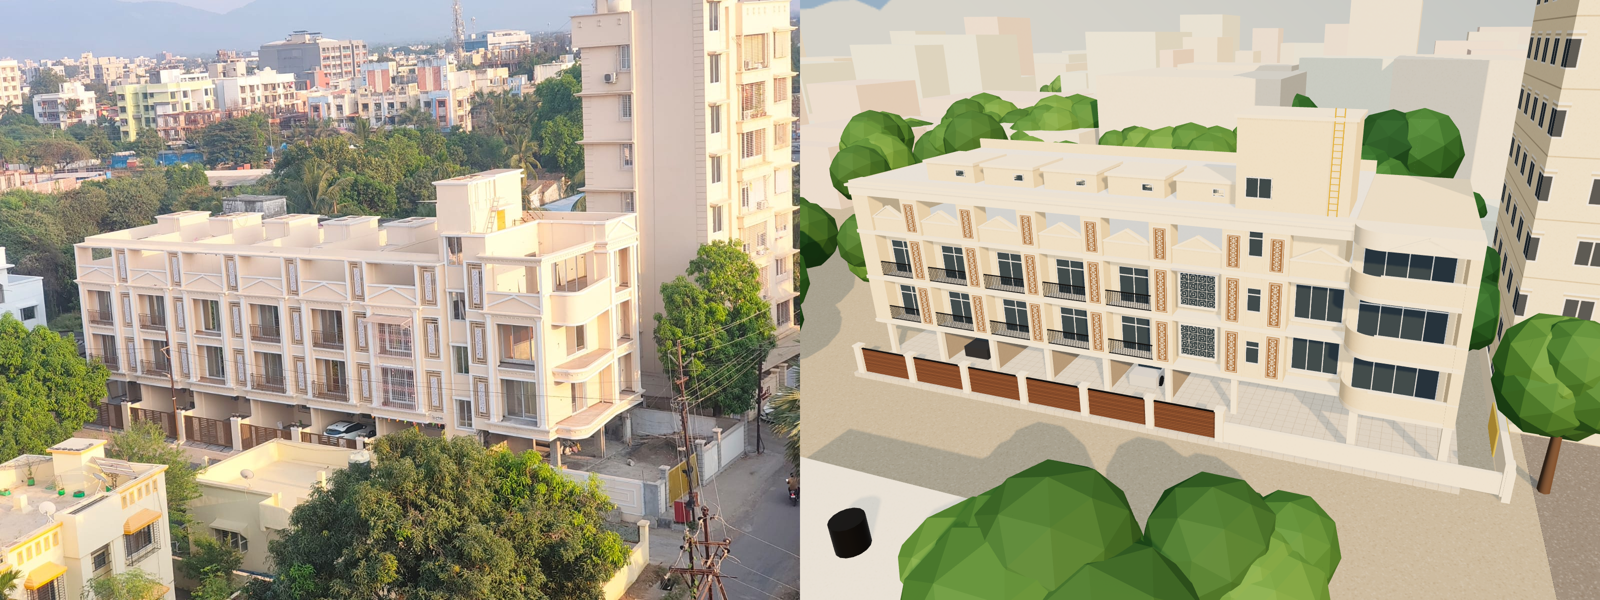
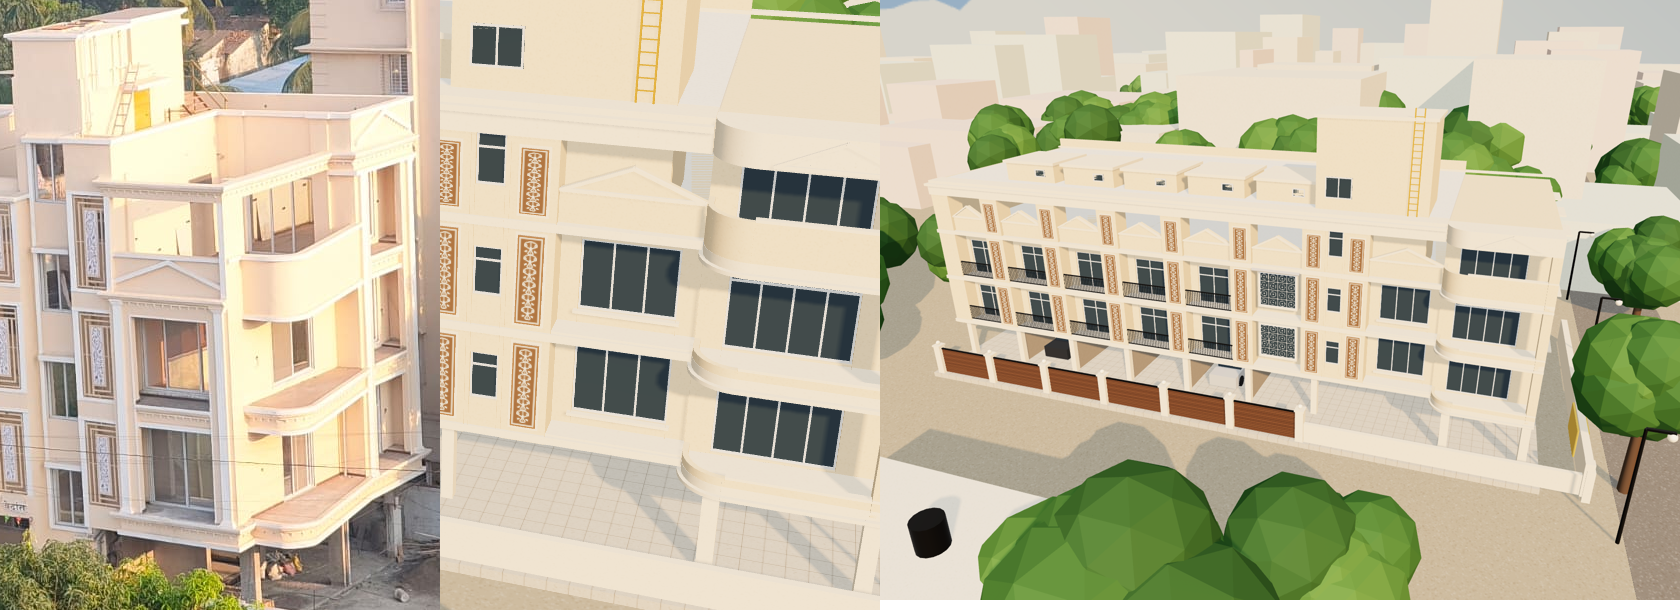
Row House: corner rework, rear facade, Dollhouse interior, day/night
- Corner block matches the photo: white-framed tall-window bay, open
  curved slabs with a moulded lip on two levels, solid curved parapet on
  top; the neighbouring tower on the right is removed
- Rear facade: windows with sunshades, bath windows, AC units, drain
  pipes, service doors, a rear lane and compound wall; Rear button
- Dollhouse: unit 3 is furnished (living, dining, kitchen; two bedrooms
  and a bath), isolated with clipping planes, cut per floor with capped
  walls, on a studio floor; Floor 1 / Floor 2 buttons
- Day/night slider: sky, sun to moon, stars, lit windows, gate and
  stilt lamps, street lamps, court lights and facade washers

diff --git a/rowhouse/index.html b/rowhouse/index.html
@@ -26,6 +26,7 @@ html,body{margin:0;height:100%;overflow:hidden;background:#d9d6cc;font-family:In
 #bar button[aria-pressed="true"]{color:var(--ink);background:rgba(211,191,151,.13);border-color:rgba(211,191,151,.3)}
 #bar label{flex:none;display:flex;align-items:center;gap:8px;padding:0 10px;font:500 11px Inter;letter-spacing:.12em;text-transform:uppercase;color:var(--mute)}
 #bar input{width:110px;accent-color:#b89a5e}
+#bar button[hidden]{display:none}
 #check{right:18px;top:18px;padding:9px 13px;border-radius:10px;background:var(--glass);border:1px solid var(--line);font:500 11px Inter;color:var(--champ)}
 body.shot .ui{display:none!important}
 </style>
@@ -42,9 +43,14 @@ body.shot .ui{display:none!important}
 <div id="bar" class="ui" role="toolbar" aria-label="View">
   <button data-v="photo" aria-pressed="true">Photo view</button>
   <button data-v="orbit" aria-pressed="false">Orbit</button>
+  <button data-v="rear" aria-pressed="false">Rear</button>
+  <button data-v="dollhouse" aria-pressed="false">Dollhouse</button>
+  <button data-f="0" aria-pressed="true" hidden>Floor 1</button>
+  <button data-f="1" aria-pressed="false" hidden>Floor 2</button>
   <button data-t="massing" aria-pressed="false">Massing</button>
   <button data-t="context" aria-pressed="true">Context</button>
   <label>Compare <input id="cmp" type="range" min="0" max="100" value="0"></label>
+  <label>☀ <input id="tod" type="range" min="0" max="100" value="0" aria-label="Time of day, day to night"> ☾</label>
 </div>
 <script type="module">
 import * as THREE from 'three';
@@ -78,14 +84,21 @@ const SPEC={
   /* the corner block, measured from the end of the row (x offsets): a narrow bay, a panel pilaster, a wide-window
      bay, then a balcony stack projecting forward with a rounded front-left corner; the stair and lift tower on top */
   corner:{width:11.8,narrow:{x0:.625,x1:1.675},pilaster:2.3,
-    stack:{x0:6,right:11.8,front:1.6,back:-.35,radius:1.5},
+    stack:{x0:6.6,right:11.8,front:1.25,back:-.35,radius:1.2},
     tower:{x0:-.2,x1:5.6,z0:-4.6,z1:-.6,top:17.2}},
+  dollhouse:{unit:2,cut:2.3},                                          // the furnished unit shown in the Dollhouse view
   cars:[{unit:4,color:'#f1f1ee'},{unit:1,color:'#3a3e44'}],
   palette:{wall:'#f3d6ad',trim:'#f8e4c6',shade:'#9a8f80',roof:'#ece5d8',
     panelFrame:'#8f6a45',panelField:'#7a5a3a',panelLine:'#f4ede0',
     rail:'#1b1b1b',glass:'#33424c',wood:'#6e4a30',gap:'#2a1c12',paving:'#c9bfae',
     ground:'#a79c86',road:'#77736d',leaf:'#3f6a2b',neighbour:'#efd9b4'}
 };
+
+/* the sky gradient, repainted as the time of day changes */
+const SKY_DAY=['#98b0c4','#c3ced5','#dcdcd5'],SKY_NIGHT=['#05081a','#111a33','#283048'];
+function paintSky(t,k){const c=t.image,x=c.getContext('2d'),g=x.createLinearGradient(0,0,0,c.height),L=(a,b)=>new THREE.Color(a).lerp(new THREE.Color(b),k).getStyle();
+  g.addColorStop(0,L(SKY_DAY[0],SKY_NIGHT[0]));g.addColorStop(.5,L(SKY_DAY[1],SKY_NIGHT[1]));g.addColorStop(1,L(SKY_DAY[2],SKY_NIGHT[2]));
+  x.fillStyle=g;x.fillRect(0,0,c.width,c.height);t.needsUpdate=true;}
 
 /* ── 3. procedural materials: tileable canvas textures, every colour taken from the palette ── */
 function canvas(w,h=w){const c=document.createElement('canvas');c.width=w;c.height=h;return [c,c.getContext('2d')];}
@@ -130,9 +143,14 @@ const TEX={
     x.beginPath();x.moveTo(128,72);x.lineTo(128,180);x.stroke();
     x.fillStyle='rgba(0,0,0,.2)';x.fillRect(60,56,136,9);x.fillStyle='#f3eadb';x.fillRect(60,46,136,10);
     x.fillStyle='rgba(0,0,0,.22)';x.fillRect(0,250,256,6);return tex(c);},
-  sky(){const[c,x]=canvas(4,256),g=x.createLinearGradient(0,0,0,256);
-    g.addColorStop(0,'#98b0c4');g.addColorStop(.5,'#c3ced5');g.addColorStop(1,'#dcdcd5');x.fillStyle=g;x.fillRect(0,0,4,256);
-    return tex(c,{repeat:false});},
+  sky(){const[c]=canvas(4,256);const t=tex(c,{repeat:false});paintSky(t,0);return t;},
+  planks(){const[c,x]=canvas(256),r=rng(17),n=8,h=256/n;
+    for(let i=0;i<n;i++){const k=.85+r()*.25;x.fillStyle=`rgb(${168*k|0},${122*k|0},${82*k|0})`;x.fillRect(0,i*h,256,h);
+      x.fillStyle='rgba(60,35,15,.35)';x.fillRect(0,i*h,256,1.5);const o=r()*256;x.fillRect(o,i*h,1.5,h);
+      x.strokeStyle='rgba(70,40,20,.12)';for(let j=0;j<6;j++){const y=i*h+2+r()*(h-4);x.beginPath();x.moveTo(0,y);x.lineTo(256,y+r()*2-1);x.stroke();}}
+    return tex(c);},
+  tiles(hex){const[c,x]=canvas(256);x.fillStyle=hex;x.fillRect(0,0,256,256);mottle(x,256,256,23,.05);
+    x.fillStyle='rgba(90,80,70,.35)';for(let i=0;i<4;i++){x.fillRect(i*64,0,2,256);x.fillRect(0,i*64,256,2);}return tex(c);},
   hills(){const[c,x]=canvas(1024,128),r=rng(9);x.fillStyle='#fff';x.beginPath();x.moveTo(0,128);let y=80;
     for(let i=0;i<=64;i++){y=Math.max(14,Math.min(112,y+(r()-.5)*24-(i>18&&i<34?3.5:i>34&&i<48?-3:0)));x.lineTo(i*16,y);}
     x.lineTo(1024,128);x.fill();return tex(c,{repeat:false});}
@@ -148,6 +166,22 @@ function makeMaterials(p){
     rail:std({color:p.rail,roughness:.45,metalness:.55}),
     frame:std({color:'#f3f2ee',roughness:.4,metalness:.15}),
     glass:new THREE.MeshPhysicalMaterial({color:p.glass,roughness:.06,metalness:0,ior:1.5,envMapIntensity:1.5}),
+    /* lit windows: the same glass with a warm glow that the time-of-day slider turns up after dark */
+    glassLit:new THREE.MeshPhysicalMaterial({color:p.glass,roughness:.06,metalness:0,ior:1.5,envMapIntensity:1.5,emissive:'#ffbf6e',emissiveIntensity:0}),
+    lamp:std({color:'#fff1d6',emissive:'#ffcf8a',emissiveIntensity:.15,roughness:.4}),
+    ac:std({color:'#d9d9d4',roughness:.5}),
+    pipe:std({color:'#e8e2d6',roughness:.6}),
+    /* interior */
+    inWall:std({map:TEX.plaster('#f5efe5',41,.03),roughness:.92},2.5),
+    floorWood:std({map:TEX.planks(),roughness:.55},1.6),
+    tile:std({map:TEX.tiles('#e6e2da'),roughness:.4},1.2),
+    sofa:std({color:'#8c735a',roughness:.92}),accent:std({color:'#3f6f66',roughness:.9}),
+    linen:std({color:'#f2ede3',roughness:.95}),throwM:std({color:'#a8584a',roughness:.9}),
+    woodDark:std({color:'#4d3626',roughness:.6}),white:std({color:'#f3f1ec',roughness:.35}),
+    counter:std({color:'#2f2f30',roughness:.3}),metal:std({color:'#a3a8ab',roughness:.3,metalness:.8}),
+    screen:std({color:'#0b0c0e',roughness:.15}),rug:std({color:'#b5a083',roughness:.98}),
+    ceil:std({color:'#fff7ea',emissive:'#ffe1b0',emissiveIntensity:.4}),
+    cap:std({color:'#f1e9dc',roughness:.9}),
     gate:std({map:TEX.slats(p),roughness:.7}),
     grille:std({map:TEX.grille(),alphaTest:.5,side:THREE.DoubleSide,roughness:.5,color:'#f2efe8'}),
     awning:std({color:'#d6d2cc',roughness:.55,metalness:.3}),
@@ -212,8 +246,9 @@ function buildRowHouse(S,M,stage){
       const hs=holes.filter(h=>mx>h[0]&&mx<h[1]).sort((p,q)=>p[2]-q[2]);let y=y0;
       for(const h of hs){if(h[2]>y)BX(a,b,y,h[2],zf-t,zf,m);y=Math.max(y,h[3]);}if(y1>y)BX(a,b,y,y1,zf-t,zf,m);}}
   /* a window set back in its reveal: white aluminium frame, mullions, a fanlight transom, glass */
+  const lit=rng(77),glass=()=>lit()<.55?M.glassLit:M.glass;
   function windowAt(xc,yb,w,h,zf,{mullions=1,transom=.55}={}){const zg=zf-.12,t=.06;
-    P(w,h,xc,yb+h/2,zg,M.glass);
+    P(w,h,xc,yb+h/2,zg,glass());
     BX(xc-w/2,xc+w/2,yb,yb+t,zg-.02,zg+.05,M.frame);BX(xc-w/2,xc+w/2,yb+h-t,yb+h,zg-.02,zg+.05,M.frame);
     BX(xc-w/2,xc-w/2+t,yb,yb+h,zg-.02,zg+.05,M.frame);BX(xc+w/2-t,xc+w/2,yb,yb+h,zg-.02,zg+.05,M.frame);
     for(let i=1;i<=mullions;i++){const x=xc-w/2+w*i/(mullions+1);BX(x-t/2,x+t/2,yb,yb+h,zg-.01,zg+.04,M.frame);}
@@ -241,10 +276,14 @@ function buildRowHouse(S,M,stage){
   /* a recessed residential bay between two pilasters: french windows with railings, or the grilled bay windows */
   function bay(x0,x1,kind){const xc=(x0+x1)/2,a=x0+PW/2,b=x1-PW/2;
     for(let i=0;i<2;i++){const y0=FL[i];
-      BX(a,b,y0,y0+.16,-R0,PD-.02,M.trim);                                      // balcony slab
+      if(kind!=='framed')BX(a,b,y0,y0+.16,-R0,PD-.02,M.trim);                   // balcony slab
       if(kind==='french'){const {w,h}=S.window,yb=y0+.16;
         wallHoles(a,b,y0,y0+FH,-R0,[[xc-w/2,xc+w/2,yb,yb+h]]);windowAt(xc,yb,w,h,-R0);
         railing(a,b,y0+.16,PD-.08);}
+      else if(kind==='framed'){const w=2.1,h=2.25,yb=y0+.36;                     // tall window between white frame pilasters
+        wallHoles(a,b,y0,y0+FH,-R0,[[xc-w/2,xc+w/2,yb,yb+h]]);windowAt(xc,yb,w,h,-R0,{mullions:1,transom:0});
+        BX(xc-w/2-.15,xc+w/2+.15,yb-.12,yb,-R0,-R0+.26,M.trim);BX(xc-w/2-.25,xc+w/2+.25,y0+.06,y0+.3,-R0,-R0+.14,M.trim);
+        for(const s of[-1,1])BX(xc+s*(w/2+.34)-.09,xc+s*(w/2+.34)+.09,y0,y0+FH,-R0,PD+.06,M.trim);}
       else if(kind==='wide'){const w=2.6,h=2,yb=y0+.55;
         wallHoles(a,b,y0,y0+FH,-R0,[[xc-w/2,xc+w/2,yb,yb+h]]);windowAt(xc,yb,w,h,-R0,{mullions:2,transom:0});
         BX(xc-w/2-.1,xc+w/2+.1,yb-.08,yb,-R0,-R0+.18,M.trim);}
@@ -252,14 +291,18 @@ function buildRowHouse(S,M,stage){
         wallHoles(a,b,y0,y0+FH,zf,[[xc-w/2,xc+w/2,yb,yb+h]]);
         BX(xc-w/2-.08,xc+w/2+.08,yb+h,yb+h+.1,zf,zf+d,M.trim);BX(xc-w/2-.08,xc+w/2+.08,yb-.1,yb,zf,zf+d,M.trim);
         for(const s of[-1,1])BX(xc+s*(w/2+.04)-.04,xc+s*(w/2+.04)+.04,yb,yb+h,zf,zf+d,M.trim);
-        P(w,h,xc,yb+h/2,zf+d-.16,M.glass);P(w,h,xc,yb+h/2,zf+d-.02,M.grille);
+        P(w,h,xc,yb+h/2,zf+d-.16,glass());P(w,h,xc,yb+h/2,zf+d-.02,M.grille);
         if(i===1)B(w+.6,.04,.95,xc,yb+h+.42,zf+d+.05,M.awning,{rx:.42});}}
     gableParapet(a,b);}
 
   /* ── coarse massing ── */
-  BX(-.6,sR+.6,0,G,-D-.6,S.court.front,M.paving);                               // podium
+  BX(-.6,sR+.6,0,G,-D-3.2,S.court.front,M.paving);                              // podium and rear service lane
   for(const [x0,x1] of [[0,sx0]]){BX(x0,x1,FL[0]-.18,FL[0],-D,BODY,M.trim);BX(x0,x1,FL[2]-.16,FL[2],-D,PD,M.roof);}
-  BX(0,sx0,FL[0],FL[2],-D,BODY,M.wall);                                          // body of the two residential floors
+  /* body of the two residential floors; the Dollhouse unit is a hollow shell with a floor between its storeys */
+  const DH=S.dollhouse.unit,dx0=DH*W,dx1=dx0+W,ix0=dx0+.12,ix1=dx1-.12,zr=-D+T;
+  BX(0,dx0,FL[0],FL[2],-D,BODY,M.wall);BX(dx1,sx0,FL[0],FL[2],-D,BODY,M.wall);
+  BX(dx0,ix0,FL[0],FL[2],-D,BODY,M.wall);BX(ix1,dx1,FL[0],FL[2],-D,BODY,M.wall);BX(ix0,ix1,FL[0],FL[2],-D,zr,M.wall);
+  BX(ix0+.95,ix1,FL[1]-.16,FL[1],zr,BODY,M.trim);BX(ix0,ix0+.95,FL[1]-.16,FL[1],zr,-8.9,M.trim);BX(ix0,ix0+.95,FL[1]-.16,FL[1],-5.6,BODY,M.trim);
   BX(sx0,sR,FL[0]-.18,TOP-.17,-D,SK.back-T,M.wall);                              // body of the corner stack, three floors
   BX(0,sx0,FL[2],TOP,-D,-D+.2,M.wall);BX(0,.2,FL[2],TOP,-D,BODY,M.wall);       // terrace-floor back and side walls
   BX(0,sx0,TOP-.17,TOP,-D,BODY,M.roof);                                          // roof over the terrace floor
@@ -285,24 +328,48 @@ function buildRowHouse(S,M,stage){
     wallHoles(nb[0],nb[1],y0,top,PD,[[xc-.4,xc+.4,y0+.95,y0+2.35]],PD-BODY);windowAt(xc,y0+.95,.8,1.4,PD,{mullions:0,transom:.4});}
   pilaster(at(K.pilaster));
   bay(at(K.pilaster),sx0+PW/2,'wide');
-  /* the stack: slabs with a rounded front-left corner, solid curved parapets, glass doors behind, a canopy roof */
+  /* the stack: slabs with a rounded front-left corner and a fascia moulding under each; the two lower levels are open
+     balconies with a low moulded lip, the top level has a solid curved parapet; glass doors behind, a canopy roof */
   const R=SK.radius,bF=SK.front,bk=SK.back,t=.16;
-  const outline=()=>{const sh=new THREE.Shape();sh.moveTo(sx0,-bk);sh.lineTo(sR,-bk);sh.lineTo(sR,-bF);sh.lineTo(sx0+R,-bF);
-    sh.absarc(sx0+R,-(bF-R),R,-Math.PI/2,-Math.PI,true);sh.closePath();return sh;};
+  const outline=(e=0)=>{const sh=new THREE.Shape(),f=bF+e,r=R+e;sh.moveTo(sx0-e,-bk);sh.lineTo(sR,-bk);sh.lineTo(sR,-f);sh.lineTo(sx0-e+r,-f);
+    sh.absarc(sx0-e+r,-(f-r),r,-Math.PI/2,-Math.PI,true);sh.closePath();return sh;};
   const flat=(shape,h,y,m)=>{const g=new THREE.ExtrudeGeometry(shape,{depth:h,bevelEnabled:false,curveSegments:28});g.rotateX(-Math.PI/2);add(g,m,0,y,0);};
-  for(const y0 of FL){flat(outline(),.26,y0-.26,M.trim);
-    const cx=sx0+R,cy=-(bF-R),ring=new THREE.Shape();
+  const parapet=(y0,h)=>{const cx=sx0+R,cy=-(bF-R),ring=new THREE.Shape();
     ring.moveTo(cx,cy-R);ring.absarc(cx,cy,R,-Math.PI/2,-Math.PI,true);ring.lineTo(cx-(R-t),cy);ring.absarc(cx,cy,R-t,-Math.PI,-Math.PI/2,false);ring.closePath();
-    flat(ring,1.05,y0,M.wall);
-    BX(sx0+R,sR,y0,y0+1.05,bF-t,bF,M.wall);BX(sx0,sx0+t,y0,y0+1.05,bk,bF-R,M.wall);
-    BX(sx0+R,sR,y0+1.05,y0+1.12,bF-t-.03,bF+.03,M.trim);
-    const top=y0===FL[2]?ENT:y0+FH,dc=(sx0+sR)/2-.2,dw=4.4;
+    flat(ring,h,y0,M.wall);BX(sx0+R,sR,y0,y0+h,bF-t,bF,M.wall);BX(sx0,sx0+t,y0,y0+h,bk,bF-R,M.wall);
+    BX(sx0+R,sR,y0+h,y0+h+.07,bF-t-.03,bF+.03,M.trim);};
+  for(let i=0;i<3;i++){const y0=FL[i];
+    flat(outline(),.26,y0-.26,M.trim);flat(outline(.1),.1,y0-.38,M.trim);
+    parapet(y0,i<2?.24:1.05);
+    const top=i===2?ENT:y0+FH,dc=(sx0+sR)/2-.3,dw=3.2;
     wallHoles(sx0,sR,y0,top,bk,[[dc-dw/2,dc+dw/2,y0+.05,y0+2.45]]);windowAt(dc,y0+.05,dw,2.4,bk,{mullions:3,transom:.5});
-    for(const zc of[-2.4,-6.2]){P(1.3,1.5,sR+.01,y0+1.7,zc,M.glass,Math.PI/2);                // windows on the right face
-      BX(sR,sR+.07,y0+.9,y0+.96,zc-.7,zc+.7,M.frame);BX(sR,sR+.07,y0+2.44,y0+2.5,zc-.7,zc+.7,M.frame);}}
+    for(const zc of[-2.4,-6.2,-10]){P(1.3,1.5,sR+.01,y0+1.7,zc,glass(),Math.PI/2);                // windows on the right face
+      BX(sR,sR+.07,y0+.9,y0+.96,zc-.7,zc+.7,M.frame);BX(sR,sR+.07,y0+2.44,y0+2.5,zc-.7,zc+.7,M.frame);
+      BX(sR,sR+.5,y0+2.62,y0+2.7,zc-.95,zc+.95,M.trim);}}
   flat(outline(),TOP-ENT,ENT,M.trim);                                             // canopy roof over the stack
-  BX(sR-.55,sR,FL[0]-.18,ENT,bk,bF,M.wall);                                       // the right-hand pier
+  BX(sR-.45,sR,FL[0]-.18,ENT,bF-.45,bF,M.wall);                                   // the front-right column
   gableMoulding(sx0+R+.3,sR-.7,ENT+.12,TOP-.08,bF+.05,.08);
+
+  /* ── the rear: windows with sunshades, small bathroom windows, AC units, drain pipes, service doors ── */
+  const rz=-D;
+  function rearWindow(xc,yb,w,h,{shade=true,mull=1}={}){
+    P(w,h,xc,yb+h/2,rz-.012,glass(),Math.PI);
+    BX(xc-w/2-.06,xc+w/2+.06,yb-.06,yb,rz-.08,rz,M.frame);BX(xc-w/2-.06,xc+w/2+.06,yb+h,yb+h+.06,rz-.08,rz,M.frame);
+    for(const s of[-1,1])BX(xc+s*(w/2+.03)-.03,xc+s*(w/2+.03)+.03,yb,yb+h,rz-.08,rz,M.frame);
+    for(let i=1;i<=mull;i++){const x=xc-w/2+w*i/(mull+1);BX(x-.025,x+.025,yb,yb+h,rz-.06,rz,M.frame);}
+    BX(xc-w/2-.14,xc+w/2+.14,yb-.12,yb-.06,rz-.16,rz,M.trim);
+    if(shade)BX(xc-w/2-.28,xc+w/2+.28,yb+h+.14,yb+h+.22,rz-.6,rz,M.trim);}
+  const acR=rng(5);
+  for(let k=0;k<N;k++){const xc=k*W+W/2;
+    for(let i=0;i<3;i++){const y0=FL[i];rearWindow(xc-.55,y0+.95,1.5,1.35);
+      if(i<2){rearWindow(xc+1.25,y0+1.75,.55,.55,{shade:false,mull:0});
+        if(acR()<.6){BX(xc-1.3,xc-.45,y0+.3,y0+.85,rz-.34,rz,M.ac);add(new THREE.CylinderGeometry(.19,.19,.02,20),M.rail,xc-.88,y0+.57,rz-.35,Math.PI/2,0,0,false);}}}
+    BX(xc-.5,xc+.5,G,G+2.1,rz-.04,rz,M.gate);}                                     // service door to the stilt floor
+  for(const xc of[C0+1.6,C0+4.2,sx0+1.6,sx0+4.4])for(let i=0;i<3;i++)rearWindow(xc,FL[i]+.95,1.5,1.35);
+  for(let k=0;k<=N;k++)add(new THREE.CylinderGeometry(.06,.06,TOP+.2-G,8),M.pipe,k*W+(k===N?-.3:.3),G+(TOP+.2-G)/2,rz-.14);
+  for(const y of FL)BX(-.2,sR,y-.1,y+.08,rz-.12,rz,M.trim);
+  BX(-.2,sR,TOP,TOP+.12,rz-.14,rz+.25,M.trim);
+  BX(-.6,sR+.6,0,1.8,-D-3.4,-D-3.2,M.trim);                                       // rear compound wall
 
   /* ── string courses, the top beam and cornice across row and corner ── */
   for(const y of FL)BX(-.25,sx0,y-.12,y+.1,BODY,PD+.08,M.trim);
@@ -318,9 +385,69 @@ function buildRowHouse(S,M,stage){
   const lx=tx1-.8;for(const x of[lx-.22,lx+.22])BX(x-.025,x+.025,TOP,TW.top+.6,TW.z1+.04,TW.z1+.09,M.ladder);
   for(let y=TOP+.3;y<TW.top+.5;y+=.32)BX(lx-.22,lx+.22,y,y+.03,TW.z1+.05,TW.z1+.08,M.ladder);
 
+  /* ── inside the Dollhouse unit: living, dining and kitchen on floor 1; two bedrooms and a bath on floor 2 ── */
+  const caps=[[],[]],cx=(ix0+ix1)/2,zf=BODY,HW=FH-.16;
+  const part=(lv,x0,x1,z0,z1)=>{BX(x0,x1,FL[lv],FL[lv]+HW,z0,z1,M.inWall);caps[lv].push([x0,x1,z0,z1]);};
+  for(let lv=0;lv<2;lv++){const y=FL[lv],xc=dx0+W/2,w=S.window.w;
+    /* shell: inner plaster lining (the front lining keeps the french window open), floor, ceiling light */
+    BX(ix0,ix0+.02,y,y+HW,zr,zf,M.inWall);BX(ix1-.02,ix1,y,y+HW,zr,zf,M.inWall);BX(ix0,ix1,y,y+HW,zr,zr+.02,M.inWall);
+    wallHoles(ix0,ix1,y,y+HW,zf,[[xc-w/2,xc+w/2,y+.16,y+.16+S.window.h]],.02,M.inWall);
+    BX(ix0,ix1,y,y+.02,zr,zf,M.floorWood,{s:false});
+    for(const z of[-3,-7.2,-11])add(new THREE.CylinderGeometry(.24,.24,.03,24),M.ceil,cx,y+HW-.03,z,0,0,0,false);
+    for(const [x0,x1,z0,z1] of[[dx0,ix0,-D,zf],[ix1,dx1,-D,zf],[ix0,ix1,-D,zr],[ix0,xc-w/2,zf,-R0],[xc+w/2,ix1,zf,-R0],
+      [dx0,dx0+PW/2,BODY,PD],[dx1-PW/2,dx1,BODY,PD]])caps[lv].push([x0,x1,z0,z1]);}
+  /* the stair: one flight per storey along the left party wall, with a handrail */
+  const stair=(y,up)=>{for(let i=0;i<14;i++){const z1=up?-5.6-i*.236:-8.9+i*.236,z0=z1-.236*(up?1:-1);
+      BX(ix0,ix0+.95,y,y+(i+1)*FH/14,Math.min(z0,z1),Math.max(z0,z1),M.white);}};
+  stair(FL[0],true);stair(FL[1],false);
+  { const y=FL[0];
+    part(0,ix1-1.1,ix1,-5.4,-5.3);part(0,ix0,ix0+1.4,-9.05,-8.95);part(0,ix0+2.4,ix1,-9.05,-8.95);
+    BX(ix0,ix1,y+.02,y+.03,zr,-9.05,M.tile,{s:false});
+    /* living */
+    BX(ix0+.6,ix1-.5,y+.02,y+.035,-4.6,-1.6,M.rug,{s:false});
+    BX(ix1-.85,ix1,y,y+.42,-4.5,-2.1,M.sofa);BX(ix1-.24,ix1,y+.42,y+.86,-4.5,-2.1,M.sofa);
+    for(const z of[-4.5,-2.3])BX(ix1-.85,ix1,y+.42,y+.62,z,z+.2,M.sofa);
+    BX(ix1-.7,ix1-.4,y+.42,y+.7,-3.6,-3.1,M.accent);
+    BX(cx-.55,cx+.25,y+.36,y+.42,-3.75,-2.85,M.woodDark);BX(cx-.45,cx+.15,y,y+.36,-3.65,-2.95,M.woodDark);
+    BX(ix0,ix0+.42,y+.15,y+.55,-4.4,-2.2,M.woodDark);BX(ix0+.03,ix0+.08,y+.95,y+1.65,-4.0,-2.6,M.screen);
+    BX(ix0+.45,ix0+1.15,y,y+.42,-1.6,-.95,M.accent);BX(ix0+.45,ix0+.62,y+.42,y+.85,-1.6,-.95,M.accent);
+    /* dining */
+    const tx=ix0+2.45,tz=-7.2;BX(tx-.45,tx+.45,y+.72,y+.76,tz-.8,tz+.8,M.woodDark);BX(tx-.08,tx+.08,y,y+.72,tz-.6,tz+.6,M.woodDark);
+    for(const s of[-1,1])for(const dz of[-.5,0,.5]){BX(tx+s*.65-.2,tx+s*.65+.2,y,y+.46,tz+dz-.2,tz+dz+.2,M.white);
+      BX(tx+s*.85-.04,tx+s*.85+.04,y+.46,y+.9,tz+dz-.2,tz+dz+.2,M.white);}
+    add(new THREE.SphereGeometry(.16,16,10),M.ceil,tx,y+2.1,tz,0,0,0,false);
+    /* kitchen */
+    BX(ix0,ix1,y,y+.88,zr,zr+.6,M.white);BX(ix0,ix1,y+.88,y+.92,zr,zr+.62,M.counter);
+    BX(ix1-.6,ix1,y,y+.88,zr+.6,-10.4,M.white);BX(ix1-.62,ix1,y+.88,y+.92,zr+.6,-10.4,M.counter);
+    BX(cx-.3,cx+.3,y+.92,y+.935,zr+.1,zr+.5,M.screen);BX(ix1-.5,ix1-.1,y+.86,y+.93,-11.4,-10.8,M.metal);
+    BX(ix0,ix0+.7,y,y+1.85,-9.85,-9.15,M.metal);BX(ix0,ix1,y+1.5,y+2.2,zr,zr+.35,M.white);}
+  { const y=FL[1];
+    part(1,ix0+1.9,ix1,-5.45,-5.35);part(1,ix0+.95,ix0+1.05,-8.9,-5.45);
+    part(1,ix0+2.0,ix0+2.1,-6.5,-5.45);part(1,ix0+2.0,ix0+2.1,-8.65,-7.4);part(1,ix0+2.0,ix1,-8.7,-8.6);
+    part(1,ix0,ix0+1.0,-9.05,-8.95);part(1,ix0+1.9,ix1,-9.05,-8.95);
+    BX(ix0+2.1,ix1,y+.02,y+.03,-8.6,-5.45,M.tile,{s:false});
+    /* master bedroom */
+    const bx=cx+.3;BX(bx-.85,bx+.85,y,y+.5,-5.3,-3.3,M.linen);BX(bx-.9,bx+.9,y,y+1.15,-5.35,-5.25,M.woodDark);
+    BX(bx-.86,bx+.86,y+.5,y+.53,-3.95,-3.28,M.throwM);for(const s of[-1,1])BX(bx+s*.42-.32,bx+s*.42+.32,y+.5,y+.66,-5.2,-4.85,M.linen);
+    for(const s of[-1,1])BX(bx+s*1.2-.22,bx+s*1.2+.22,y,y+.5,-5.3,-4.9,M.woodDark);
+    BX(ix0,ix0+.6,y,y+2.2,-2.7,-1.0,M.woodDark);BX(ix0+.6,ix0+.62,y+.1,y+2.1,-1.88,-1.82,M.metal);
+    BX(ix0+.8,ix1-.6,y+.02,y+.035,-3.1,-1.2,M.rug,{s:false});
+    /* bath */
+    BX(ix1-.55,ix1-.15,y,y+.42,-6.15,-5.6,M.white);BX(ix1-.5,ix1,y+.78,y+.86,-7.5,-6.6,M.white);
+    BX(ix1-.42,ix1-.08,y+.86,y+.95,-7.25,-6.85,M.white);BX(ix1-.03,ix1-.01,y+1.2,y+1.9,-7.4,-6.7,M.metal);
+    BX(ix0+2.12,ix0+3.2,y+.02,y+2.1,-8.2,-8.18,M.glass);
+    /* rear bedroom with a study desk */
+    BX(ix1-1.0,ix1,y,y+.45,-12.6,-10.6,M.linen);BX(ix1-1.0,ix1,y+.45,y+.48,-11.4,-10.6,M.accent);
+    BX(ix0,ix0+.55,y+.72,y+.76,-12.5,-11.1,M.woodDark);BX(ix0+.05,ix0+.5,y,y+.72,-12.45,-12.35,M.woodDark);
+    BX(ix0+.6,ix0+1.0,y,y+.46,-11.95,-11.55,M.accent);
+    /* guard rail around the stair void */
+    BX(ix0+.95,ix0+1.0,y,y+1,-8.9,-5.6,M.rail);}
+
   /* ── ground floor: compound pillars and wooden slat gates, cars in the parking bays ── */
   const gz=S.court.gateZ;
-  for(let k=0;k<=N;k++){B(.46,1.9,.46,k*W,G+.95,gz,M.trim);B(.56,.1,.56,k*W,G+1.95,gz,M.trim);}
+  for(let k=0;k<=N;k++){B(.46,1.9,.46,k*W,G+.95,gz,M.trim);B(.56,.1,.56,k*W,G+1.95,gz,M.trim);
+    add(new THREE.SphereGeometry(.13,14,10),M.lamp,k*W,G+2.13,gz,0,0,0,false);}
+  for(let k=0;k<N;k++)BX(k*W+W/2-.5,k*W+W/2+.5,FL[0]-.2,FL[0]-.18,-3.4,-3.1,M.lamp,{s:false});
   for(let k=0;k<N;k++){const xc=k*W+W/2;B(W-.46,1.65,.06,xc,G+.9,gz,M.gate);BX(xc-W/2+.23,xc+W/2-.23,G+1.72,G+1.78,gz-.05,gz+.05,M.rail);}
   BX(C0+.23,sR+2.6,G,G+1.15,gz-.12,gz+.12,M.trim);B(.46,1.9,.46,sR+2.6,G+.95,gz,M.trim);
   for(const car of S.cars){const xc=car.unit*W+W/2,m=new THREE.MeshStandardMaterial({color:car.color,roughness:.35,metalness:.4});
@@ -328,7 +455,13 @@ function buildRowHouse(S,M,stage){
       for(const [dx,dz] of[[-.84,-1.45],[.84,-1.45],[-.84,1.25],[.84,1.25]])
         add(new THREE.CylinderGeometry(.34,.34,.24,16),M.rail,xc+dx,G+.5,-3.4+dz,0,0,Math.PI/2);});}
 
-  const g=new THREE.Group();g.name='building';bt.flush(g);return {group:g,report:bt.report};
+  const g=new THREE.Group();g.name='building';bt.flush(g);
+  /* solid tops for every wall the Dollhouse cut passes through, one set per floor, shown only in that view */
+  const capGroups=caps.map((list,lv)=>{const cb=makeBatcher(),y=FL[lv]+S.dollhouse.cut;
+    list.forEach(([x0,x1,z0,z1])=>cb.BX(Math.max(x0,dx0-.02),Math.min(x1,dx1+.02),y-.03,y,z0,z1,M.cap,{s:false}));
+    const cg=new THREE.Group();cb.flush(cg);cg.visible=false;g.add(cg);return cg;});
+  const center=new THREE.Vector3(dx0+W/2,0,-6.5);
+  return {group:g,report:bt.report,caps:capGroups,dollhouse:{x0:dx0,x1:dx1,center}};
 }
 
 /* ── the surroundings in the photo: kept simple and cheap, all snapped onto the ground ── */
@@ -338,8 +471,9 @@ function buildContext(S,M){
   BX(40.5,47,0,.02,-160,60,M.road,{s:false});
   BX(38.9,39.3,0,1.8,-16,2.6,M.trim);                                            // right compound wall
   BX(38.8,39.4,0,1.65,-4.2,-1.2,M.yellow);                                       // its yellow gate
-  /* the cream tower behind on the right */
-  grounded('neighbour tower',0,()=>{BX(39,51,0,40,-18,-4,M.neighbour);BX(38.7,51.3,40,40.4,-18.3,-3.7,M.trim);});
+  /* street lamps along the road */
+  for(let z=-40;z<=20;z+=15)grounded('street lamp '+z,0,()=>{add(new THREE.CylinderGeometry(.07,.09,6,8),M.rail,40.2,3,z);
+    BX(40.2,41.3,5.95,6.05,z-.07,z+.07,M.rail);add(new THREE.SphereGeometry(.2,14,10),M.lamp,41.2,5.8,z,0,0,0,false);});
   /* two houses in the foreground, left */
   grounded('house A',0,()=>{BX(-6,8,0,6.4,19,30,M.houseA);BX(-6.2,8.2,6.4,7.1,18.8,30.2,M.houseA);
     BX(-6.3,8.3,3.1,3.3,18.6,30.4,M.yellow);B(1,1.1,1,4,7.65,24,M.trim);});
@@ -351,8 +485,8 @@ function buildContext(S,M){
     for(let i=0;i<7;i++){const a=r()*6.28,d=r()*rad*.55,s=rad*(.42+r()*.28);
       add(new THREE.IcosahedronGeometry(s,1),M.leaf[i%3],x+Math.cos(a)*d,h*.62+(r()-.4)*rad*.6,z+Math.sin(a)*d);}});
   tree('mango tree, front',23,18,5.5,7.5);tree('mango tree, side',29,14,4,6.5);tree('tree, left',-5,6,4.8,7.5);tree('tree, right',41,1,4,10.5);
-  tree('tree, behind right',37,-12,4.5,9);
-  for(let i=0;i<44;i++)tree('tree, rear '+i,-28+r()*66,-16-r()*34,3.4+r()*3,9+r()*7);
+  tree('tree, behind right',45,-22,4.5,9);
+  for(let i=0;i<44;i++)tree('tree, rear '+i,-28+r()*66,-24-r()*30,3.4+r()*3,9+r()*7);
   for(let i=0;i<9;i++)tree('tree, left side '+i,-22+r()*16,-12+r()*24,3+r()*2.5,6+r()*5);
   /* the town beyond, fading into the haze */
   for(let i=0;i<170;i++){const x=-140+r()*280,z=-42-r()*190,w=8+r()*14,d=8+r()*12,h=6+r()*r()*24;
@@ -376,15 +510,30 @@ scene.environment=new THREE.PMREMGenerator(renderer).fromScene(new RoomEnvironme
 const sun=new THREE.DirectionalLight('#ffc98a',3.8);sun.position.set(55,38,48);sun.target.position.set(18,4,-4);
 sun.castShadow=true;sun.shadow.mapSize.set(2048,2048);Object.assign(sun.shadow.camera,{left:-42,right:42,top:34,bottom:-34,near:10,far:160});
 sun.shadow.bias=-.0004;sun.shadow.normalBias=.03;scene.add(sun,sun.target);
-scene.add(new THREE.HemisphereLight('#cddbe6','#a8957a',.75));
+const hemi=new THREE.HemisphereLight('#cddbe6','#a8957a',.75);scene.add(hemi);
+/* night lighting: warm lights over the gates and the parking court, two facade washers, and two lights inside the
+   Dollhouse unit. All are always present (no shader recompiles); the slider sets their strength */
+const NL=[];const nl=(l,base)=>{l.userData.base=base;l.intensity=0;scene.add(l);if(l.target)scene.add(l.target);NL.push(l);return l;};
+for(const x of[4,12.3,20.5,29])nl(new THREE.PointLight('#ffc27a',0,16,2),18).position.set(x,2.6,3.4);
+for(const [x,tx] of[[6,6],[19,19]]){const sp=nl(new THREE.SpotLight('#ffcf94',0,34,.42,.8,1.4),220);sp.position.set(x,.8,4.5);sp.target.position.set(tx,9,-.5);}
+const IN=[];for(const lv of[0,1]){const p=new THREE.PointLight('#ffd9a8',0,9,2);p.userData.lv=lv;scene.add(p);IN.push(p);}
+/* stars, shown after dark */
+const starG=new THREE.BufferGeometry(),sp=[],sr=rng(4);
+for(let i=0;i<500;i++){const a=sr()*6.283,e=.08+sr()*1.3,R=700;sp.push(Math.cos(a)*Math.cos(e)*R,Math.sin(e)*R,Math.sin(a)*Math.cos(e)*R);}
+starG.setAttribute('position',new THREE.Float32BufferAttribute(sp,3));
+const stars=new THREE.Points(starG,new THREE.PointsMaterial({color:'#ffffff',size:1.6,sizeAttenuation:false,transparent:true,opacity:0,fog:false,depthWrite:false}));
+scene.add(stars);
 
 const M=makeMaterials(SPEC.palette);
+const studio=new THREE.Mesh(new THREE.CircleGeometry(14,48),new THREE.MeshStandardMaterial({color:'#8d8478',roughness:1}));
+const skyTex=scene.background,studioBg=new THREE.Color('#2b2824');
+studio.rotation.x=-Math.PI/2;studio.position.y=-.02;studio.receiveShadow=true;studio.visible=false;scene.add(studio);
 let building=null;const context=buildContext(SPEC,M);scene.add(context.group);
 function build(stage){if(building){scene.remove(building.group);building.group.traverse(o=>o.geometry&&o.geometry.dispose());}
   building=buildRowHouse(SPEC,M,stage);scene.add(building.group);dirty=true;}
 const camera=new THREE.PerspectiveCamera(50,1,.3,1500),controls=new OrbitControls(camera,cv);
 controls.enableDamping=true;controls.dampingFactor=.08;controls.maxPolarAngle=1.48;controls.minDistance=10;controls.maxDistance=220;
-let mode='photo',dirty=true;controls.addEventListener('change',()=>{dirty=true;if(mode==='photo'&&!syncing)setMode('orbit');});
+let mode='photo',dirty=true,floor=0,tod=0;controls.addEventListener('change',()=>{dirty=true;if(mode==='photo'&&!syncing)setMode('orbit');});
 let syncing=false;
 /* the photo is 4:3; the render keeps that frame centred and the overlay sits exactly on it */
 const ref=document.getElementById('ref');
@@ -394,18 +543,58 @@ function photoCamera(){const c=SPEC.reference.camera,{bh}=frame();syncing=true;
   camera.fov=2*Math.atan(Math.tan(THREE.MathUtils.degToRad(c.fov)/2)*innerHeight/bh)*180/Math.PI;
   camera.position.set(...c.p);controls.target.set(...c.t);camera.updateProjectionMatrix();
   controls.enableDamping=false;controls.update();controls.enableDamping=true;syncing=false;dirty=true;}
-function setMode(m){mode=m;document.querySelectorAll('[data-v]').forEach(b=>b.setAttribute('aria-pressed',String(b.dataset.v===m)));
-  if(m==='photo')photoCamera();}
+function place(p,t,fov=50){syncing=true;camera.fov=fov;camera.position.set(...p);controls.target.set(...t);camera.updateProjectionMatrix();
+  controls.enableDamping=false;controls.update();controls.enableDamping=true;syncing=false;dirty=true;}
+/* Dollhouse: one unit isolated by two vertical clipping planes and cut above the chosen floor; the walls the cut
+   passes through get solid caps; the surroundings give way to a plain studio floor */
+const CLIP=[new THREE.Plane(new THREE.Vector3(1,0,0),0),new THREE.Plane(new THREE.Vector3(-1,0,0),0),new THREE.Plane(new THREE.Vector3(0,-1,0),0)];
+renderer.localClippingEnabled=true;
+function buildingMaterials(){const set=new Set();building.group.traverse(o=>{if(o.isMesh&&o.material!==M.cap)set.add(o.material);});return set;}
+function dollhouse(on){const d=building.dollhouse,cut=SPEC.levels.slabs[floor]+SPEC.dollhouse.cut;
+  CLIP[0].constant=-(d.x0-.03);CLIP[1].constant=d.x1+.03;CLIP[2].constant=cut;
+  for(const m of buildingMaterials()){m.clippingPlanes=on?CLIP:null;m.clipShadows=true;m.needsUpdate=true;}
+  building.caps.forEach((c,i)=>c.visible=on&&i===floor);context.group.visible=!on&&document.querySelector('[data-t="context"]').getAttribute('aria-pressed')==='true';
+  studio.visible=on;stars.visible=!on;scene.fog.far=on?1e5:620;
+  document.querySelectorAll('[data-f]').forEach(b=>{b.hidden=!on;b.setAttribute('aria-pressed',String(+b.dataset.f===floor));});
+  if(on){const c=d.center.clone();c.y=SPEC.levels.slabs[floor]+1;place([c.x-6.5,c.y+15,c.z+9.5],[c.x,c.y,c.z-.5],45);
+    studio.position.set(c.x,-.02,c.z);}
+  applyTime();}
+function setMode(m){const was=mode;mode=m;document.querySelectorAll('[data-v]').forEach(b=>b.setAttribute('aria-pressed',String(b.dataset.v===m)));
+  if(was==='dollhouse'&&m!=='dollhouse')dollhouse(false);
+  if(m==='photo')photoCamera();
+  if(m==='rear')place([34,10.5,-23],[15,6.5,-13],52);
+  if(m==='dollhouse')dollhouse(true);}
+/* time of day: 0 is the photo's warm late afternoon, 1 is night */
+const L=(a,b,k)=>a+(b-a)*k,C=(a,b,k)=>new THREE.Color(a).lerp(new THREE.Color(b),k);
+const SUN_DAY=new THREE.Vector3(55,38,48),MOON=new THREE.Vector3(-40,60,30);
+function applyTime(){const k=tod,dh=mode==='dollhouse';
+  sun.color.copy(C('#ffc98a','#9fb6e6',k));sun.intensity=L(3.8,.35,k);sun.position.copy(SUN_DAY.clone().lerp(MOON,k));
+  hemi.color.copy(C('#cddbe6','#2a3858',k));hemi.groundColor.copy(C('#a8957a','#0d0f14',k));hemi.intensity=L(.75,.3,k);
+  paintSky(skyTex,k);scene.background=dh?studioBg:skyTex;scene.fog.color.copy(C('#d7d4cb','#141a2c',k));
+  scene.environmentIntensity=L(.35,.08,k);renderer.toneMappingExposure=L(1.15,1.3,k);
+  M.glassLit.emissiveIntensity=k*1.7;M.lamp.emissiveIntensity=.15+k*3.2;M.ceil.emissiveIntensity=.4+k*1.6;
+  NL.forEach(l=>l.intensity=l.userData.base*k*k);
+  IN.forEach(l=>{const c=building.dollhouse&&building.dollhouse.center;if(!c){l.intensity=0;return;}l.position.set(c.x,SPEC.levels.slabs[l.userData.lv]+2.3,c.z);
+    l.intensity=dh&&l.userData.lv===floor?L(2,9,k):0;});
+  stars.material.opacity=k>.4&&!dh?(k-.4)/.6:0;
+  const hills=context.group.children.find(o=>o.isMesh&&o.material.map&&o.material.transparent);if(hills)hills.material.color.copy(C('#6e8191','#0e1424',k));
+  dirty=true;}
 function resize(){renderer.setSize(innerWidth,innerHeight,false);camera.aspect=innerWidth/innerHeight;camera.updateProjectionMatrix();
   if(mode==='photo')photoCamera();else frame();dirty=true;}
 addEventListener('resize',resize);
 document.getElementById('bar').addEventListener('click',e=>{const b=e.target.closest('button');if(!b)return;
   if(b.dataset.v)setMode(b.dataset.v);
+  if(b.dataset.f){floor=+b.dataset.f;dollhouse(true);}
   if(b.dataset.t==='massing'){const on=b.getAttribute('aria-pressed')!=='true';b.setAttribute('aria-pressed',String(on));build(on?'massing':'full');}
   if(b.dataset.t==='context'){const on=b.getAttribute('aria-pressed')!=='true';b.setAttribute('aria-pressed',String(on));context.group.visible=on;dirty=true;}});
+document.getElementById('tod').addEventListener('input',e=>{tod=e.target.value/100;applyTime();});
 document.getElementById('cmp').addEventListener('input',e=>{ref.style.opacity=e.target.value/100;if(+e.target.value&&mode!=='photo')setMode('photo');});
 
 build(location.search.includes('massing')?'massing':'full');resize();setMode('photo');
+const Q=new URLSearchParams(location.search);
+if(Q.has('t')){tod=+Q.get('t');document.getElementById('tod').value=tod*100;}
+if(Q.has('dh')){floor=+Q.get('dh');setMode('dollhouse');}else if(Q.get('view')==='rear')setMode('rear');
+applyTime();
 const all=[...building.report,...context.report],moved=all.filter(r=>Math.abs(r['gap before (m)'])>.01);
 console.table(all);
 document.getElementById('check').textContent=`Contacts: ${all.length} objects grounded`+(moved.length?` (${moved.length} snapped)`:'');
